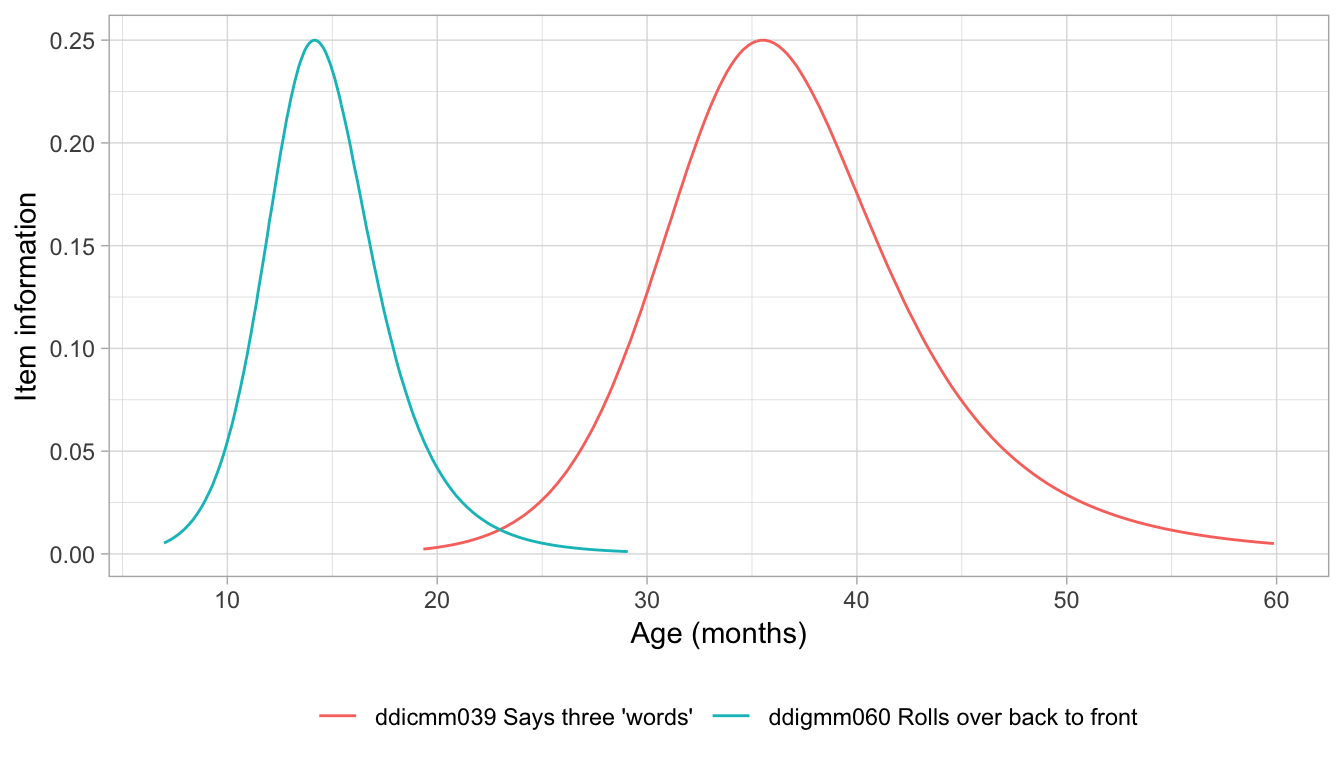
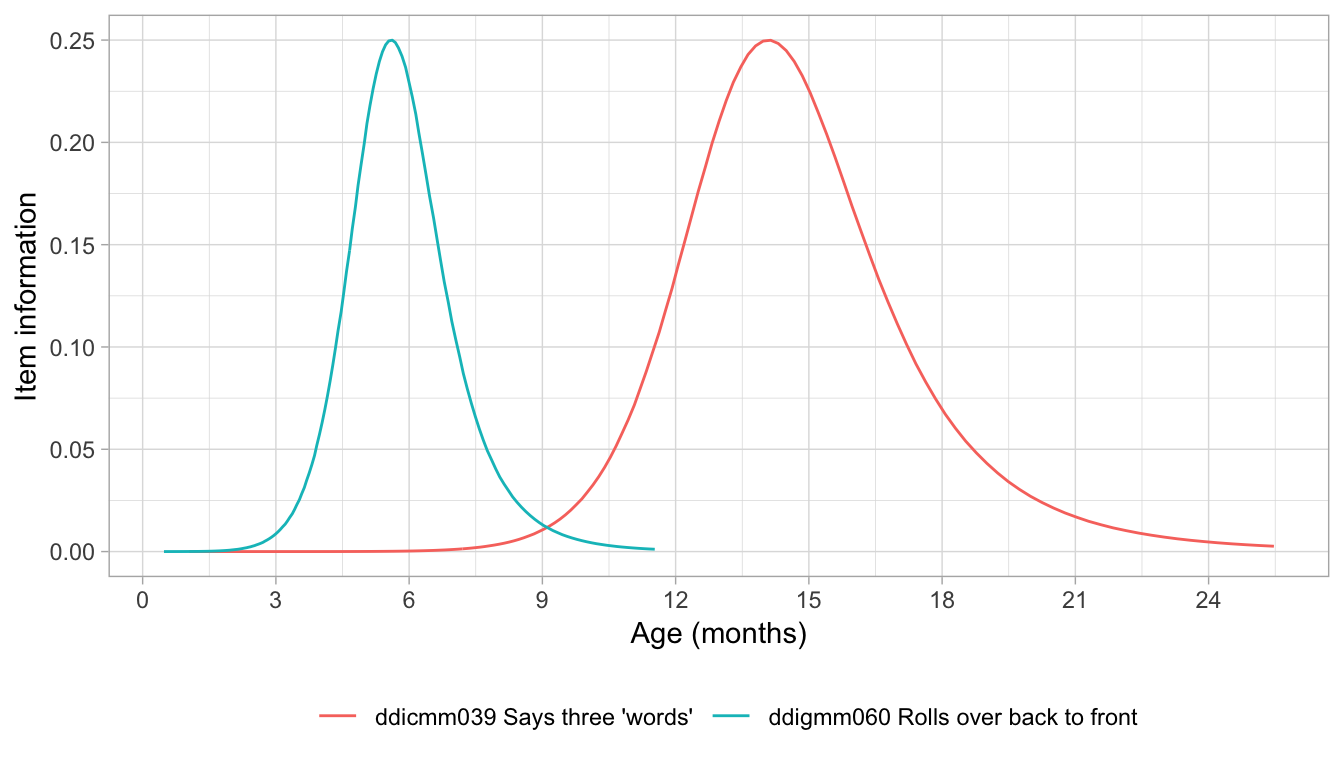
Update ch06

diff --git a/docs/sec-itemfit.html b/docs/sec-itemfit.html
@@ -256,7 +256,7 @@
 <p>The philosophy of the Rasch model is different from conventional statistical modeling. It is not the task of the Rasch model to account for the data. Rather it is the task of the data to fit the Rasch model. We saw this distinction before in Section <a href="sec-measurementmodel.html#sec:adaptmodel">4.5.2</a>.</p>
 <p>The goal of model fit assessment is to explore and quantify how well empirical data meet the requirements of the Rasch model. One way to gauge model fit is to compare the observed probability of passing an item to the fitted item response curve for endorsing the item.</p>
 <p>The fitted item response curve for each item <span class="math inline">\(i\)</span> is modeled as:</p>
-<p><span class="math display">\[P_{ni}= \frac{exp( \beta_{n} - \delta_{i})}{1+exp(\beta_{n}-\delta_{i})}, \]</span></p>
+<p><span class="math display">\[P_{ni}= \frac{\exp( \beta_{n} - \delta_{i})}{1+\exp(\beta_{n}-\delta_{i})}, \]</span></p>
 <p>where <span class="math inline">\(\beta_n\)</span> is the ability of person <span class="math inline">\(n\)</span> and <span class="math inline">\(\delta_i\)</span> is the difficulty of item <span class="math inline">\(i\)</span>. It is thus natural to compare the observed and modeled probabilities at various levels of ability.</p>
 <div id="well-fitting-item-response-curves" class="section level3">
 <h3><span class="header-section-number">6.1.1</span> Well-fitting item response curves</h3>
@@ -271,7 +271,7 @@ Figure 6.1: Empirical and fitted item response curves for two milestones from th
 </div>
 <div id="item-response-curves-showing-severe-underfit" class="section level3">
 <h3><span class="header-section-number">6.1.2</span> Item response curves showing severe underfit</h3>
-<p>These examples of item response curves fit the model nicely. There are however many cases where things are less bright.</p>
+<p>These examples of item response curves fit the model nicely. There are, however, many cases where things are less bright.</p>
 <div class="figure" style="text-align: center"><span id="fig:plothyp1"></span>
 <img src="dbook1_files/figure-html/plothyp1-1.png" alt="Three simulated items that illustrate various forms of item misfit." width="672" />
 <p class="caption">
@@ -279,8 +279,8 @@ Figure 6.2: Three simulated items that illustrate various forms of item misfit.
 </p>
 </div>
 
-<p>Figure <a href="sec-itemfit.html#fig:plothyp1">6.2</a> shows three forms of severe underfit. The probability to pass item <code>hypgmd001</code> is almost constant across ability, so retaining this item essentially only adds to the noise. Item <code>hypgmd002</code> converges to an asymptote around 80 percent and has a severe dip in the middle. The dip is caused by the strong relation to age. Item <code>hypgmd003</code> appears to have the wrong coding. In addition, the spike-like behavior in the middle is often seen when two or more different items are erroneously given the same code.</p>
-<p>Removing of items like these could substantially improve model fit.</p>
+<p>Figure <a href="sec-itemfit.html#fig:plothyp1">6.2</a> shows three forms of severe underfit from three hypothetical items. These items were simulated to have a low fit, added to the DDI, and their parameters were estimated by the methods of Chapter <a href="ch-computation.html#ch:computation">5</a>. For the first item, <code>hypgmd001</code>, the probability of passing is almost constant across ability, so retaining this item essentially only adds to the noise. Item <code>hypgmd002</code> converges to an asymptote around 80 percent and has a severe dip in the middle. The dip is caused by the strong relation to age. Item <code>hypgmd003</code> appears to have the wrong coding. In addition, the spike-like behavior in the middle is often seen when two or more different items are erroneously given identical item names.</p>
+<p>Removal of items with a low fit can substantially improve overall model fit.</p>
 </div>
 <div id="item-response-curves-showing-overfit" class="section level3">
 <h3><span class="header-section-number">6.1.3</span> Item response curves showing overfit</h3>
@@ -291,26 +291,27 @@ Figure 6.3: Two simulated items that illustrate item overfit.
 </p>
 </div>
 
-<p>Figure <a href="sec-itemfit.html#fig:plothyp2">6.3</a> shows two forms of overfit. The curve of item <code>hypgmd004</code> is much steeper than the modeled curve. Thus, just this one item is exceptionally well-suited to distinguish children with a <span class="math inline">\(D\)</span>-score below 50 from those with a <span class="math inline">\(D\)</span>-score above 50. Note that the item isn’t sensitive anywhere else on the scale. In general, having items like these is good news, because they allow us to increase the reliability of the instrument. One should make certain though, that FAIL and PASS scores are all measured (not imputed) values.</p>
+<p>Figure <a href="sec-itemfit.html#fig:plothyp2">6.3</a> shows two hypothetical items with two forms of overfit. The curve of item <code>hypgmd004</code> is much steeper than the modeled curve. Thus, just this one item is exceptionally well-suited to distinguish children with a <span class="math inline">\(D\)</span>-score below 50 from those with a <span class="math inline">\(D\)</span>-score above 50. Note that the item isn’t sensitive anywhere else on the scale. In general, having items like these is good news, because they allow us to increase the reliability of the instrument. One should make certain though, that FAIL and PASS scores are all measured (not imputed) values.</p>
 <p>Multiple perfect items could hint to a violation of the <em>local independence assumption</em> (c.f. Section <a href="sec-measurementmodel.html#sec:measurementmodel">4.5</a>). Developmental milestones sometimes have combinations of responses that are impossible. For example, one cannot walk without being able to stand, so the inconsistent combination (stand: FAIL, walk: PASS) will not be observed. This leads to more consistent responses that would be expected by chance alone. In principle, one could combine the two such items into one three-category items, which effectively set the probability of inconsistent combinations to zero.</p>
 <p>Item <code>hypgmd005</code> is also steep, but has an asymptote around 80 percent. This causes discrepancies between the empirical and modeled curves around the middle of the probability scale. In general, such items could be removed if a sufficient number of better items are available.</p>
 </div>
 <div id="item-infit-and-outfit" class="section level3">
 <h3><span class="header-section-number">6.1.4</span> Item infit and outfit</h3>
 <p>Item fit can quantified by item <em>infit</em> and <em>outfit</em>. Both are aggregates of the model residuals. The observed response <span class="math inline">\(x_{ni}\)</span> of person <span class="math inline">\(n\)</span> on item <span class="math inline">\(i\)</span> can be <span class="math inline">\(0\)</span> or <span class="math inline">\(1\)</span>. The expected response <span class="math inline">\(P_{ni}\)</span> is modeled as</p>
-<p><span class="math display">\[P_{ni} = \frac{exp(\hat\beta_{n} - \hat\delta_{i})}{1 + exp(\hat\beta_{n} - \hat\delta_{i})}\]</span>,</p>
-<p>where <span class="math inline">\(\hat\beta_{n}\)</span> is the estimated ability of person <span class="math inline">\(n\)</span>, and where <span class="math inline">\(\hat\delta_{i}\)</span> is the estimated difficulty of item <span class="math inline">\(i\)</span>. The standardized residual <span class="math inline">\(z_{ni}\)</span> is the difference between the observed response <span class="math inline">\(x_{ni}\)</span> and the expected response <span class="math inline">\(P_{ni}\)</span>, divided by the expected binomial standard deviation:</p>
-<p><span class="math display">\[z_{ni} = \frac{x_{ni}-P_{ni}}{\sqrt{W_{ni}}}\]</span>,</p>
+<p><span class="math display">\[P_{ni} = \frac{\exp(\hat\beta_{n} - \hat\delta_{i})}{1 + \exp(\hat\beta_{n} - \hat\delta_{i})},\]</span></p>
+<p>where <span class="math inline">\(\hat\beta_{n}\)</span> is the estimated ability of person <span class="math inline">\(n\)</span>, and where <span class="math inline">\(\hat\delta_{i}\)</span> is the estimated difficulty of item <span class="math inline">\(i\)</span>. Chapter <a href="ch-computation.html#ch:computation">5</a> describes process of parameter estimation in detail.</p>
+<p>The standardized residual <span class="math inline">\(z_{ni}\)</span> is the difference between the observed response <span class="math inline">\(x_{ni}\)</span> and the expected response <span class="math inline">\(P_{ni}\)</span>, divided by the expected binomial standard deviation,</p>
+<p><span class="math display">\[z_{ni} = \frac{x_{ni}-P_{ni}}{\sqrt{W_{ni}}},\]</span></p>
 <p>where the expected response variance <span class="math inline">\(W_{ni}\)</span> is calculated as</p>
-<p><span class="math display">\[W_{ni} = P_{ni}(1-P_{ni})\]</span>.</p>
-<p><em>Item infit</em> is the sum of the squared residuals divided by the sum of the expected response variances <span class="math inline">\(W_{ni}\)</span>.</p>
-<p><span class="math display">\[\mathrm{Infit} = \frac{\sum_{n}^N (x_{ni}-P_{ni})^2}{\sum_n^N W_{ni}}\]</span></p>
+<p><span class="math display">\[W_{ni} = P_{ni}(1-P_{ni}).\]</span></p>
+<p><em>Item infit</em> is the sum of the squared residuals divided by the sum of the expected response variances <span class="math inline">\(W_{ni}\)</span></p>
+<p><span class="math display">\[\mathrm{Infit} = \frac{\sum_{n}^N (x_{ni}-P_{ni})^2}{\sum_n^N W_{ni}}.\]</span></p>
 <p><em>Item outfit</em> is calculated as the average (over <span class="math inline">\(N\)</span> persons) of the squared standardized residual</p>
-<p><span class="math display">\[\mathrm{Outfit} = \frac{\sum_{n}^N z_{ni}^2}{N}\]</span></p>
+<p><span class="math display">\[\mathrm{Outfit} = \frac{\sum_{n}^N z_{ni}^2}{N}.\]</span></p>
 <p>The expected value of both infit and outfit is equal to 1.0. The interpretation is as follows:</p>
 <ul>
-<li><p>If infit and outfit are 1.0, then the item perfectly fit the Rasch model, as in Figure <a href="sec-itemfit.html#fig:ploticc">6.1</a>;</p></li>
-<li><p>If infit and outfit &gt; 1.0, then the item has underfit. The amount of under fit is quantified by infit and outfit, as in <a href="sec-itemfit.html#fig:plothyp1">6.2</a>;</p></li>
+<li><p>If infit and outfit are 1.0, then the item perfectly fits the Rasch model, as in Figure <a href="sec-itemfit.html#fig:ploticc">6.1</a>;</p></li>
+<li><p>If infit and outfit &gt; 1.0, then the item has underfit. The amount of underfit is quantified by infit and outfit, as in <a href="sec-itemfit.html#fig:plothyp1">6.2</a>;</p></li>
 <li><p>If infit and outfit &lt; 1.0, then the item fits the model better than expected (overfit). The amount of over fit is quantified by infit and outfit, as in <a href="sec-itemfit.html#fig:plothyp2">6.3</a>.</p></li>
 </ul>
 <p>Infit is more sensitive to discrepancies in the middle of the probability scale, whereas outfit is the better measure for discrepancies at probabilities close to 0 or 1. Lack of fit is generally easier to spot at the extremes. The two measures are highly correlated. Infit is generally considered more important.</p>

diff --git a/docs/sec-iteminformation.html b/docs/sec-iteminformation.html
@@ -256,6 +256,8 @@
 <div id="item-information-at-a-given-ability" class="section level3">
 <h3><span class="header-section-number">6.4.1</span> Item information at a given ability</h3>
 <p>Items are generally sensitive to only a part of the ability scale. Item information is a psychometric measure that quantifies how informative the item is at different levels of ability. Item information can be plotted as a curve for each item.</p>
+<p>The formula to obtain the item information is the first derivative of the item response curve and can be written as follows:</p>
+<p><span class="math display">\[I(\hat\delta_i)=P(\hat\delta_i)(1-P(\hat\delta_i))\]</span> where <span class="math inline">\(P(\hat\delta_i)\)</span> is the conditional probability of endorsing item <span class="math inline">\(i\)</span>, and where <span class="math inline">\(\hat\delta_i\)</span> is the estimated item difficulty in the logit scale. For example for milestone <code>ddicmm039</code> (“Says three words”) <span class="math inline">\(\hat\delta_i\)</span> equals <span class="math inline">\(4.06\)</span>.</p>
 <div class="figure" style="text-align: center"><span id="fig:iic"></span>
 <img src="dbook1_files/figure-html/iic-1.png" alt="The item information curve for two milestones from the DDI." width="672" />
 <p class="caption">
@@ -263,16 +265,15 @@ Figure 6.8: The item information curve for two milestones from the DDI.
 </p>
 </div>
 
-<p>Figure <a href="sec-iteminformation.html#fig:iic">6.8</a> displays the item information curves for two milestones from the DDI. Note that the amount of information for the item is maximal around the item difficulty. In the Rasch model, the information curves of different items are just translations along the ability scale.</p>
-<p>The formula to obtain the item information is the first derivative of the item response curve and can be written as follows:</p>
-<p><span class="math display">\[I(\delta)=P_i(\delta)(1-P_i(\delta))\]</span> where <span class="math inline">\(P_i(\delta)\)</span> is the conditional probability of endorsing an item. For example for milestone <code>ddicmm039</code> (“Says three words”) the <span class="math inline">\(\delta_i\)</span> equals <span class="math inline">\(4.06\)</span>. The probability of endorsing this item for a person with an ability level of <span class="math inline">\(2\)</span> standard deviation above the mean is</p>
-<p><span class="math display">\[P_{ni}= \frac{\mathrm{exp}(2 - 4.06)}{1+\mathrm{exp}(2-4.06)} = 0.113\]</span></p>
-<p>So for an ability level of <span class="math inline">\(2\)</span> standard deviations above the mean <span class="math inline">\(\beta_n = 2\)</span>, milestone <code>ddicmm039</code> has an information of</p>
-<p><span class="math display">\[I(\delta)=0.113(1-0.113) = 0.1\]</span></p>
+<p>Figure <a href="sec-iteminformation.html#fig:iic">6.8</a> displays the item information curves for two milestones from the DDI. Note that the amount of information for the item is maximal around the item difficulty.</p>
+<p>The probability of endorsing milestone <code>ddicmm039</code> for a child with an ability of <span class="math inline">\(2\)</span> logits is</p>
+<p><span class="math display">\[P_{ni}= \frac{\exp(2 - 4.06)}{1+\exp(2-4.06)} = 0.113\]</span></p>
+<p>At this ability level, milestone <code>ddicmm039</code> has information</p>
+<p><span class="math display">\[I(\hat\delta_i)=0.113 \times (1-0.113) = 0.10\]</span></p>
 </div>
 <div id="item-information-at-a-given-age" class="section level3">
 <h3><span class="header-section-number">6.4.2</span> Item information at a given age</h3>
-<p>In practice, it is often interesting to express the item information against age. By doing so, one can identify at what ages the item provides the most information.</p>
+<p>In practice, it is often interesting to express the item information against age. By doing so, one can identify at what ages an item provides the most information.</p>
 <div class="figure" style="text-align: center"><span id="fig:iia"></span>
 <img src="dbook1_files/figure-html/iia-1.png" alt="Information information of Figure 6.8 plotted against age." width="672" />
 <p class="caption">
@@ -280,8 +281,8 @@ Figure 6.9: Information information of Figure <a href="sec-iteminformation.html#
 </p>
 </div>
 
-<p>Figure <a href="sec-iteminformation.html#fig:iia">6.9</a> shows that the sensitive age ranges differ considerably between items. Milestone <code>ddigmm060</code> is sensitive at between ages 10–20 months, where <code>ddicmm039</code> is sensitive between ages 27–47, a range that is twice as broad. Note also that the information curves are no longer symmetric.</p>
-<p>The item information by age curve helps to determine at what ages the item can best be administered. The item will be most informative, when administered at the age at which 50% of the children will pass the milestone. Administering the item closely around that age provide the most efficient measurement of ability. When space is at premium (e.g. as in population surveys) using a well-chosen set of age-sensitive milestones will help in reducing the total number of milestones that needs to be measured.</p>
+<p>Figure <a href="sec-iteminformation.html#fig:iia">6.9</a> shows that the sensitive age ranges differ considerably between items. Using 0.05 as a criterion, milestone <code>ddigmm060</code> is sensitive between ages 4–8 months, whereas <code>ddicmm039</code> is sensitive between ages 10–19 months, a range that is about twice as broad. The symmetric nature of the curves in Figure <a href="sec-iteminformation.html#fig:iic">6.8</a> is not present Figure <a href="sec-iteminformation.html#fig:iia">6.9</a>. In general, the relation between age and item sensitivity is more complex than the relation between ability and item sensitivity.</p>
+<p>The item information by age curve helps to determine at what ages the item can best be administered. The item will be most informative if administered at the age at which 50% of the children will pass the milestone, which is the point where the item information is equal to 0.5 * 0.5 = 0.25. Administering the item closely around that age provide the most efficient measurement of ability. When space is at premium (e.g. as in population surveys) using a well-chosen set of age-sensitive milestones will help in reducing the total number of milestones that needs to be measured.</p>
 <p>In other contexts, milestones may be used as a screening instrument to identify developmental delay. In that case, it is more efficient to administer items that are very easy for the age, e.g. milestones on which, say, 90% of the children will pass.</p>
 </div>
 </div>

diff --git a/docs/sec-reliability.html b/docs/sec-reliability.html
@@ -253,14 +253,14 @@
             <section class="normal" id="section-">
 <div id="sec:reliability" class="section level2">
 <h2><span class="header-section-number">6.5</span> Reliability</h2>
-<p>Reliability is defined as the proportion of variance of the person estimates (i.e. abilities) relative to the total variance, including errors. More specifically, the reliability <span class="math inline">\(R\)</span> of a test is written as</p>
+<p>The reliability is a one-number summary of the accuracy of an instrument. Statisticians define reliability as the proportion of variance attributable to the variation between person (i.e. abilities) relative to the total variance, including errors. More specifically, the reliability <span class="math inline">\(R\)</span> of a test is written as</p>
 <p><span class="math display">\[R \equiv \frac{\sigma_{\beta}^2}{\sigma_{\beta}^2 + \sigma_{e}^2},\]</span></p>
 <p>where <span class="math inline">\(\sigma_{\beta}^2\)</span> is the variance of true ability and <span class="math inline">\(\sigma_{e}^2\)</span> is the error variance.</p>
-<p>Cronbach’s <span class="math inline">\(\alpha\)</span> is a popular estimate of the lower bound of the reliability of a test. In the Rasch model, we can estimate reliability by the <a href="http://www.rummlab.com.au/rmrelidx2030">ratio</a></p>
+<p>In general, a high reliability is desirable, so the reliability of a test is often used to decide between instruments. Cronbach’s <span class="math inline">\(\alpha\)</span> is a popular estimate of the lower bound of the reliability of a test. In the Rasch model, we can estimate reliability by the <a href="http://www.rummlab.com.au/rmrelidx2030">ratio</a></p>
 <p><span class="math display">\[\hat{R} = \frac{\hat\sigma_{\hat\beta}^2 - \hat\sigma_{\hat e}^2}{\hat\sigma_{\hat\beta}^2}.\]</span></p>
 <p>For a given model, we can calculate <span class="math inline">\(\hat\sigma_{\hat\beta}^2\)</span> directly as the sampling variance of the estimated abilities, but getting an estimate for <span class="math inline">\(\hat\sigma_{\hat e}^2\)</span> is more difficult. We use the modeled abilities and modeled difficulties to generate a hypothetical data set of the same size and same missing data pattern, and re-estimate the abilities from the simulated data. Then <span class="math inline">\(\hat\sigma_{\hat e}^2\)</span> is computable as variance of the difference between the modeled abilities and the re-estimated abilities.</p>
 <p>The estimated variance of the modeled abilities is <span class="math inline">\(\hat\sigma_{\hat\beta}^2 = 76.6\)</span>, and the variance of the difference between modeled and re-estimated abilities is equal to <span class="math inline">\(\hat\sigma_{\hat e}^2 = 1.74\)</span>. The corresponding <em>standard error of measurement (sem)</em> is <span class="math inline">\(\hat\sigma_{\hat e} = 1.32\)</span> logits.</p>
-<p>The estimated reliability in the SMOCC data can now be calculated as <span class="math inline">\((76.6-1.74)/76.6 = 0.977\)</span>. This number can be interpreted in the same way as Cronbach’s <span class="math inline">\(\alpha\)</span>. The reliability is very high here because of the large variation in <span class="math inline">\(D\)</span>-scores. In practice, the <em>sem</em> is perhaps a more relevant measure of precision.</p>
+<p>The estimated reliability in the SMOCC data can now be calculated as <span class="math inline">\((76.6-1.74)/76.6 = 0.977\)</span>. This number can be interpreted in the same way as Cronbach’s <span class="math inline">\(\alpha\)</span>, for which typically any value beyond 0.9 is classified as <em>excellent</em>. Note that the reliability is very high because of the large variation in <span class="math inline">\(D\)</span>-scores. Newborns are very different from 2-year old toddlers, which helps to increase reliability. In practice, it is perhaps more useful to have use measure of accuracy that is less dependent of the variation within the sample. The <em>sem</em>, as explained above, seems to be a more relevant measure of precision.</p>
 
 </div>
 <!-- </div> -->

diff --git a/docs/sec-dif.html b/docs/sec-dif.html
@@ -266,7 +266,7 @@
 <p>There are various ways to detect DIF. Here we will model the probability of endorsing an item by logistic regression using the observed item responses as outcome, and with ability, the grouping variable, and the ability-grouping interaction as predictors. When the latter two terms explain the residual variance of the item scores after adjusting for ability, the item presents DIF for that group. DIF can be visually inspected by plotting the curves for the subgroups separately.</p>
 <p>The are two forms of DIF:</p>
 <ul>
-<li><p><em>Uniform DIF</em>: The item response curve differ between groups in location, but are parallel;</p></li>
+<li><p><em>Uniform DIF</em>: The item response curves differ between groups in location, but are parallel;</p></li>
 <li><p><em>Non-uniform DIF</em>: The item response curve differ between groups in location, in slope and possibly in other characteristics.</p></li>
 </ul>
 <p>These forms correspond to, respectively, the main effect of group and the ability-group interaction in the logistic regression model.</p>
@@ -288,8 +288,9 @@ Figure 6.7: Two milestones from the DDI with different item response curves for 
 </p>
 </div>
 
-<p>Figure <a href="sec-dif.html#fig:plotdif2">6.7</a> displays two milestones with DIF between boys and girls. Milestone <code>ddifmm019</code> (“Takes off shoes and socks”) is easier for girls by about 0.86 logits (= the difference in ability at the intersection of 50 percent). Conversely, milestone <code>ddigmm064</code> (“Crawls forward, abdomen on the floor”) is easier for boys by about 0.84 logits. These are the largest differences found for sex in the DDI. Both are primarily uniform DIF.</p>
+<p>Figure <a href="sec-dif.html#fig:plotdif2">6.7</a> displays two milestones with DIF between boys and girls. Milestone <code>ddifmm019</code> (“Takes off shoes and socks”) is easier for girls by about 0.86 logits (= the difference in ability at the intersection of 50 percent). Conversely, milestone <code>ddigmm064</code> (“Crawls forward, abdomen on the floor”) is easier for boys by about 0.84 logits. These are the largest differences found for sex in the DDI. Both are uniform DIF.</p>
 <p>In practice, having milestones with opposite forms of DIF in the same instrument will cancel out one another, so one need not be overly concerned in that case. However, we should be careful when the instrument consists of milestones that all have DIF in the same direction.</p>
+<p>The DDI did not contain items for which the ability-group interaction was statistically significant, so we conclude that there is no non-uniform DIF in the DDI.</p>
 </div>
 </div>
 <h3>References</h3>
@@ -298,7 +299,7 @@ Figure 6.7: Two milestones from the DDI with different item response curves for 
 <p>Holland, P. W., and H. Wainer. 1983. <em>Differential Item Functioning</em>. Hillsdale, NJ: Lawrence Erlbaum Associates.</p>
 </div>
 <div id="ref-zumbo1999">
-<p>Zumbo, B.D. 1999. “A Handbook on the Theory and Methods of Differential Item Functioning (DIF).” <em>Ottawa: National Defense Headquarters</em>.</p>
+<p>Zumbo, B.D. 1999. “A Handbook on the Theory and Methods of Differential Item Functioning (DIF).” <em>Ottawa: National Defense Headquarters</em>. <a href="http://faculty.educ.ubc.ca/zumbo/DIF/" class="uri">http://faculty.educ.ubc.ca/zumbo/DIF/</a>.</p>
 </div>
 </div>
             </section>

diff --git a/docs/references.html b/docs/references.html
@@ -418,7 +418,7 @@
 <p>Wright, B. D., and G. N. Masters. 1982. <em>Rating Scale Analysis: Rasch Measurement</em>. Chicago: MESA Press.</p>
 </div>
 <div>
-<p>Zumbo, B.D. 1999. “A Handbook on the Theory and Methods of Differential Item Functioning (DIF).” <em>Ottawa: National Defense Headquarters</em>.</p>
+<p>Zumbo, B.D. 1999. “A Handbook on the Theory and Methods of Differential Item Functioning (DIF).” <em>Ottawa: National Defense Headquarters</em>. <a href="http://faculty.educ.ubc.ca/zumbo/DIF/" class="uri">http://faculty.educ.ubc.ca/zumbo/DIF/</a>.</p>
 </div>
 <div>
 <p>Zwinderman, A. H. 1995. “Pairwise Estimation in the Rasch Models.” <em>Applied Psychological Measurement</em> 19 (4): 369–75.</p>
